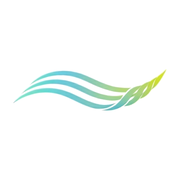
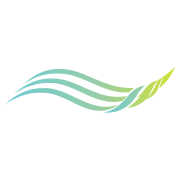
design: ロゴを Astra 清書のベクター (SVG) に差し替え
- ヘッダー・ヒーロー・フッターのロゴを SVG に (拡大してもぼやけない)
- ファビコン (SVG/32/512)・ホーム画面アイコン (180) を清書版に
- SNS で共有したときの画像 (og.png) と会社情報のロゴ (logo.png) を清書版から作り直し
- 使わなくなった旧ロゴ画像 (webp) を削除

Claude-Session: https://claude.ai/code/session_015g8wmJVqZa5BAmDtKibccn

Changed region(s): [[0.0278, 0.3611, 0.9722, 0.6389]]

diff --git a/index.html b/index.html
@@ -8,6 +8,7 @@
     <meta name="keywords" content="ENWAVE, エンウェイブ, エンウェーブ, ENSOA, エンソア, 東京toめろん, 障害福祉, 業務ソフト, 農福連携, 循環型農業, 八王子">
     <meta name="theme-color" content="#fafbf7">
     <link rel="canonical" href="https://www.enwave.jp/">
+    <link rel="icon" type="image/svg+xml" href="assets/favicon.svg">
     <link rel="icon" type="image/png" sizes="32x32" href="assets/favicon-32.png">
     <link rel="icon" type="image/png" sizes="512x512" href="assets/favicon-512.png">
     <link rel="apple-touch-icon" href="assets/apple-touch-icon.png">
@@ -51,8 +52,7 @@
     <header class="header" data-header>
         <div class="container header-inner">
             <a href="#top" class="brand" aria-label="株式会社ENWAVE トップへ">
-                <img src="assets/logo-mark.webp" alt="" width="64" height="18" class="brand-mark">
-                <span class="brand-word">ENWAVE</span>
+                <img src="assets/logo-horizontal.svg" alt="ENWAVE" width="1313" height="198" class="brand-logo">
             </a>
             <button class="nav-toggle" aria-label="メニューを開く" aria-expanded="false" aria-controls="site-nav" data-nav-toggle>
                 <span></span><span></span>
@@ -71,7 +71,7 @@
         <section class="hero" id="top">
             <canvas class="hero-canvas" data-wave aria-hidden="true"></canvas>
             <div class="container hero-content">
-                <img src="assets/logo.webp" alt="ENWAVE" width="900" height="437" class="hero-logo">
+                <img src="assets/logo-vertical.svg" alt="ENWAVE" width="671" height="335" class="hero-logo">
                 <h1 class="hero-title">縁を育て、<br class="sp"><span class="nw">地域と自然に</span><span class="nw">良い波を起こす。</span></h1>
                 <p class="hero-lead">人と人、企業と地域、都市と生産地、そして人と自然を結び直す。<br class="pc">ひとつの縁から生まれた価値を、波のように広げていきます。</p>
                 <div class="hero-actions">
@@ -196,7 +196,7 @@
 
     <footer class="footer">
         <div class="container footer-inner">
-            <img src="assets/logo.webp" alt="ENWAVE" width="180" height="87" class="footer-logo">
+            <img src="assets/logo-horizontal.svg" alt="ENWAVE" width="1313" height="198" class="footer-logo" loading="lazy">
             <nav class="footer-nav" aria-label="フッター">
                 <a href="#vision">理念</a>
                 <a href="#business">事業</a>

diff --git a/styles.css b/styles.css
@@ -56,8 +56,7 @@ a { color: inherit; }
 }
 .header-inner { display: flex; align-items: center; justify-content: space-between; height: 72px; }
 .brand { display: inline-flex; align-items: center; gap: 12px; text-decoration: none; color: var(--ink); }
-.brand-mark { width: 64px; height: auto; }
-.brand-word { font-family: var(--font-en); font-weight: 300; font-size: 20px; letter-spacing: .32em; padding-top: 4px; }
+.brand-logo { display: block; height: 28px; width: auto; }
 .nav { display: flex; align-items: center; gap: 32px; }
 .nav a { color: var(--ink-soft); text-decoration: none; font-size: 14px; letter-spacing: .08em; transition: color .2s; }
 .nav a:hover { color: var(--ink); }
@@ -250,7 +249,7 @@ a { color: inherit; }
 /* フッター */
 .footer { background: #fff; color: var(--muted); padding: 56px 0 40px; border-top: 1px solid var(--line); }
 .footer-inner { display: flex; flex-wrap: wrap; align-items: center; justify-content: space-between; gap: 24px; }
-.footer-logo { width: 140px; }
+.footer-logo { display: block; height: 30px; width: auto; }
 .footer-nav { display: flex; gap: 24px; flex-wrap: wrap; }
 .footer-nav a { text-decoration: none; font-size: 13px; }
 .footer-nav a:hover { color: var(--ink); }
